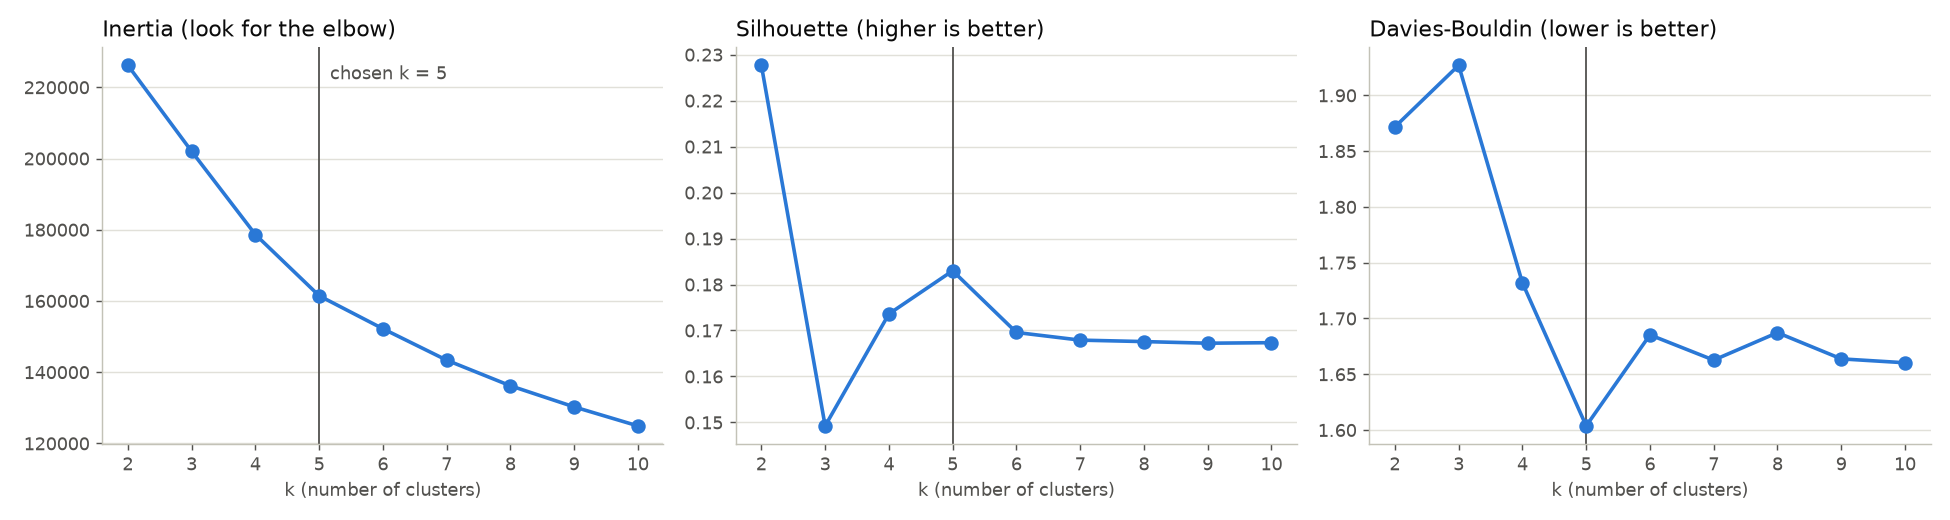
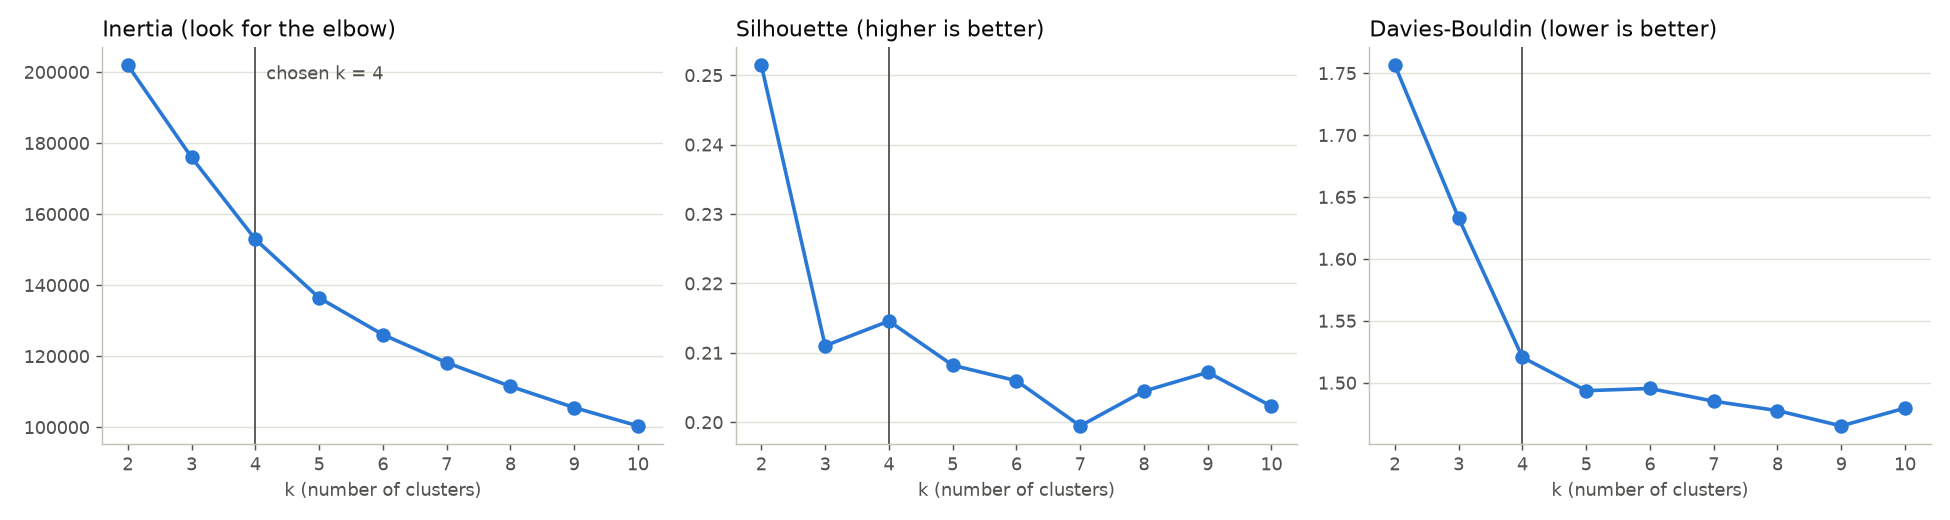
K-Means baseline: drop Meal and HasKids from inputs (null-test justified), k=4

diff --git a/src/features/clustering_features.py b/src/features/clustering_features.py
@@ -7,8 +7,14 @@ import numpy as np
 
 # Inputs to the clustering, grouped by how they are prepared (see clustering_preprocessor.py).
 NUMERIC_FEATURES = ["LogLeadTime", "LogTotalNights", "WeekendShare", "Adults"]
-BINARY_FEATURES = ["HasKids", "IsRepeatedGuest"]
-CATEGORICAL_FEATURES = ["MarketSegment", "CustomerType", "Meal"]
+
+# Meal and HasKids were tested and removed from the model inputs. Against a shuffled-column
+# null they added noise: dropping them raised the gap over the null from 0.021 to 0.042 and
+# the seed stability (ARI) from 0.42 to 0.86. Meal is 77% one value (BB) and HasKids is
+# about 90% zeros. They are still computed and reported in the cluster profiles, only they
+# no longer influence the distances.
+BINARY_FEATURES = ["IsRepeatedGuest"]
+CATEGORICAL_FEATURES = ["MarketSegment", "CustomerType"]
 CLUSTER_FEATURES = NUMERIC_FEATURES + BINARY_FEATURES + CATEGORICAL_FEATURES
 
 # Never allowed as clustering inputs: they are outcomes, or are set/updated
@@ -30,5 +36,6 @@ def add_clustering_features(df):
     # Share of the stay that falls on a weekend: 0 = weekday (business-like), 1 = weekend trip.
     # Day-use bookings have 0 nights; dividing by 1 instead of 0 gives them a share of 0.
     df["WeekendShare"] = df["StaysInWeekendNights"] / total_nights.replace(0, 1)
+    # Not a model input any more (see above), but kept for describing the clusters.
     df["HasKids"] = (kids > 0).astype(int)
     return df
